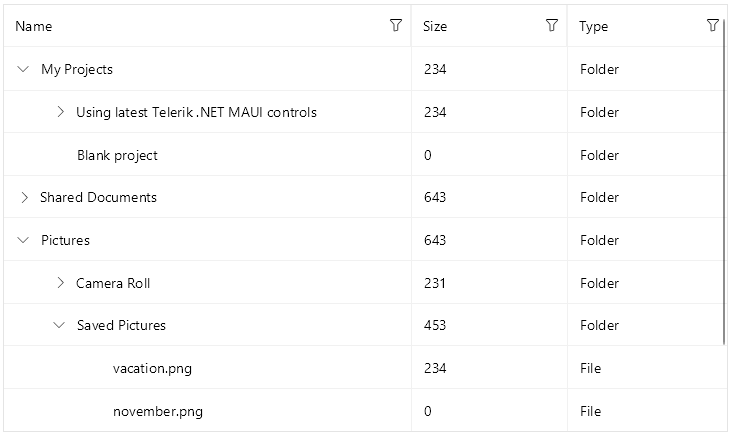
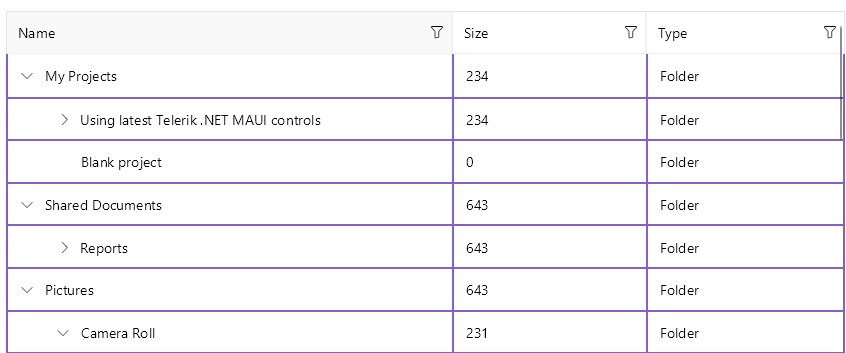
update image

diff --git a/controls/treedatagrid/theming-and-styles/overview.md b/controls/treedatagrid/theming-and-styles/overview.md
@@ -89,7 +89,9 @@ You can set the `GridLinesVisibility` property in the following way:
 
 ```XAML
 <telerik:RadTreeDataGrid ItemsSource="{Binding Items}"
-						 GridLinesVisibility="Both"
+						 GridLinesVisibility="Both" 
+						 GridLinesColor="#8660C5"
+						 GridLinesThickness="2"
 						 AutoGenerateColumns="False">
 	<telerik:RsadTreeDataGrid.ItemDescriptor>
 		<telerik:TreeDataGridItemDescriptor ItemsSourceBinding="{Binding Children}" />
